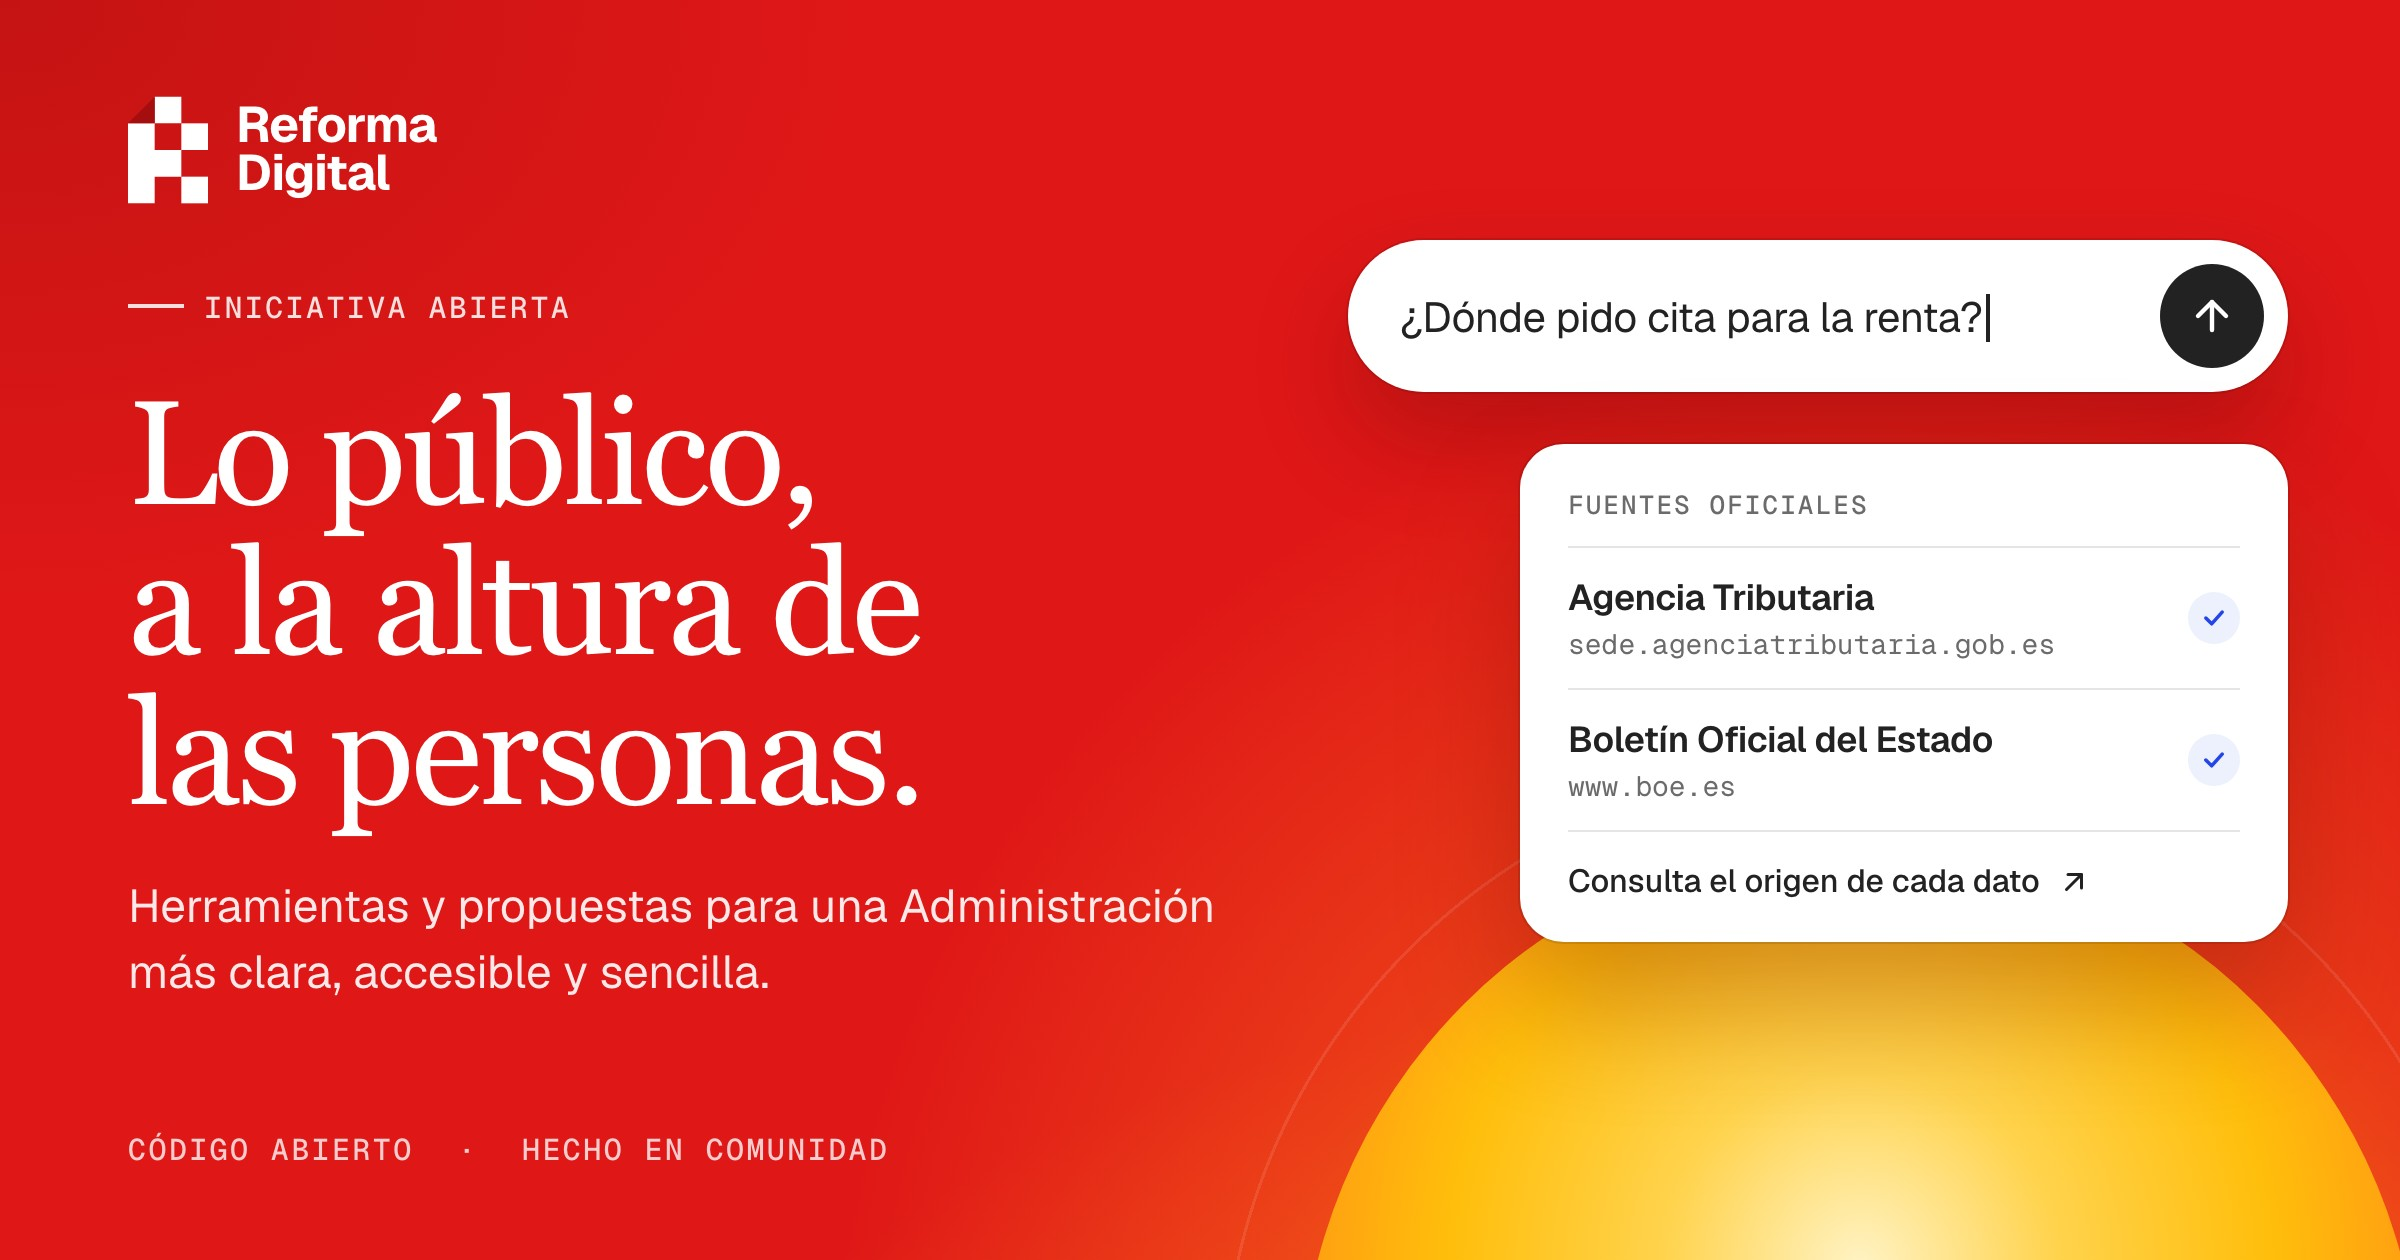
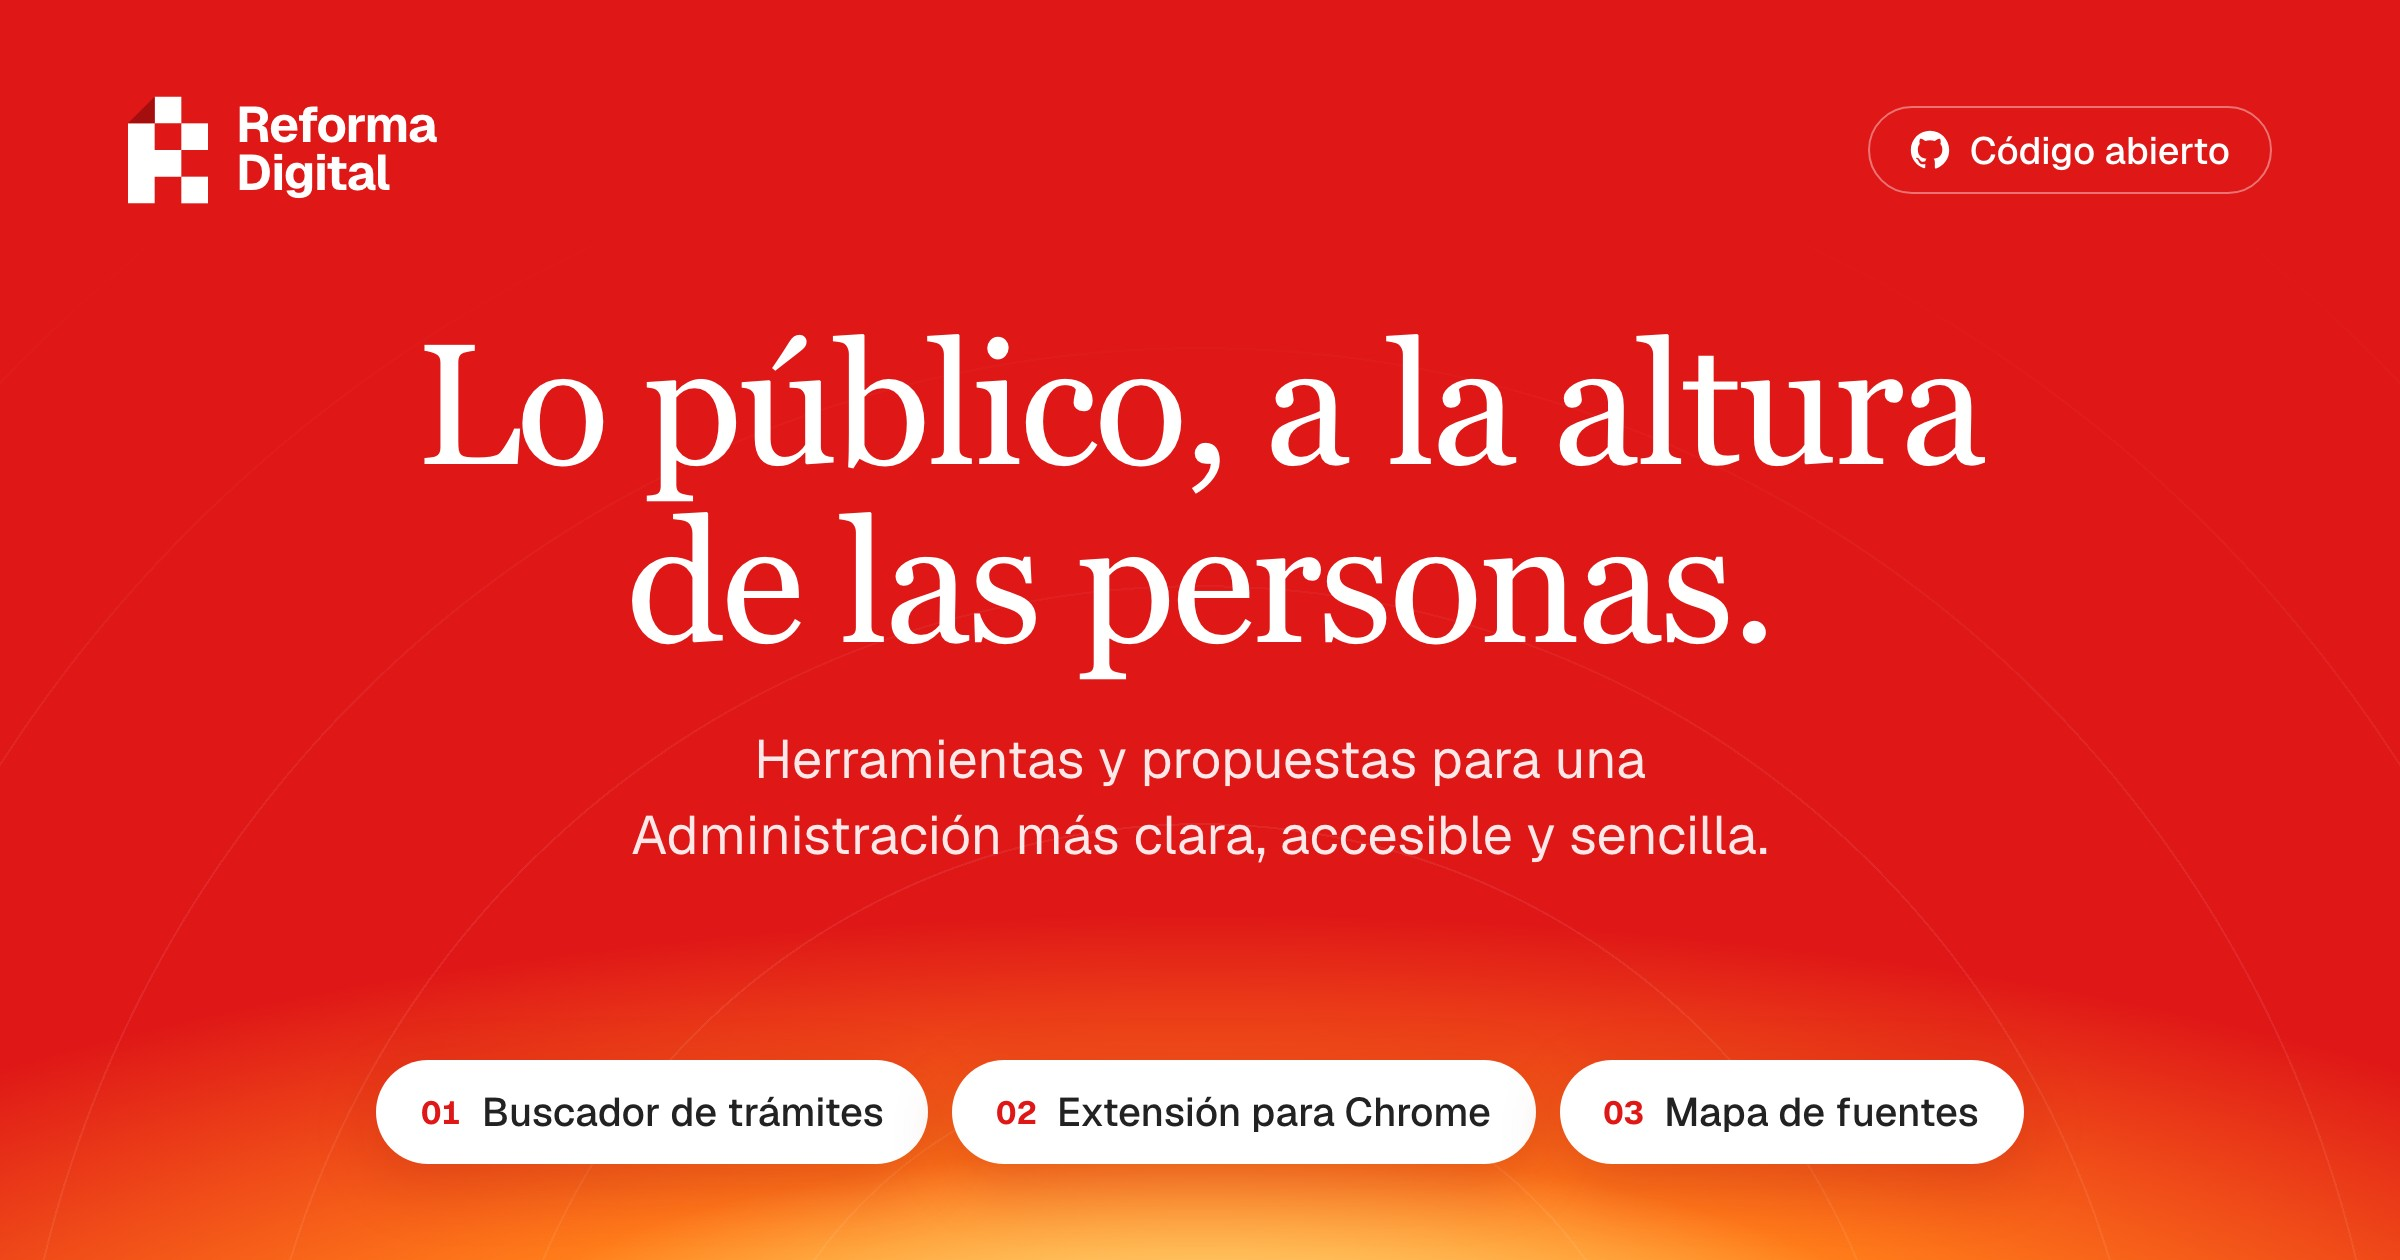
feat(web): usa el diseño centrado del hero en la imagen OG de la portada

diff --git a/apps/web/og/template.html b/apps/web/og/template.html
@@ -191,6 +191,95 @@
         display: block;
       }
 
+      /* Escena de portada: como el hero, centrada sobre el atardecer, con los proyectos debajo. */
+      [data-escena='portada'] main {
+        background:
+          radial-gradient(46% 30% at 50% 112%, #fff1b8 0%, rgba(255, 211, 77, 0) 70%),
+          radial-gradient(
+            95% 62% at 50% 122%,
+            #ffd34d 0%,
+            var(--amarillo) 22%,
+            var(--naranja) 46%,
+            rgba(223, 23, 23, 0) 80%
+          ),
+          var(--rojo);
+      }
+      [data-escena='portada'] :is(.sol, .resplandor, .etiqueta, footer) {
+        display: none;
+      }
+      [data-escena='portada'] .halos {
+        background: repeating-radial-gradient(
+          circle at 50% 122%,
+          rgba(255, 255, 255, 0) 0 118px,
+          rgba(255, 255, 255, 0.07) 118px 119px
+        );
+        -webkit-mask-image: linear-gradient(180deg, transparent 18%, #000 70%);
+      }
+      [data-escena='portada'] .copia {
+        left: 0;
+        right: 0;
+        top: 158px;
+        width: auto;
+        display: flex;
+        flex-direction: column;
+        align-items: center;
+        text-align: center;
+      }
+      [data-escena='portada'] h1 {
+        max-width: 900px;
+        font-size: 86px;
+        line-height: 1.04;
+        letter-spacing: -0.02em;
+      }
+      [data-escena='portada'] .texto {
+        max-width: 44ch;
+        margin-top: 24px;
+        font-size: 27px;
+        line-height: 1.4;
+        text-wrap: balance;
+      }
+      [data-escena='portada'] :is(.codigo, .proyectos) {
+        display: flex;
+      }
+      .codigo {
+        position: static;
+        align-items: center;
+        gap: 10px;
+        height: 44px;
+        padding: 0 20px;
+        border: 1px solid rgba(255, 255, 255, 0.4);
+        border-radius: 999px;
+        font-size: 19px;
+        font-weight: 500;
+      }
+      .proyectos {
+        left: 0;
+        right: 0;
+        bottom: 48px;
+        justify-content: center;
+        gap: 12px;
+        list-style: none;
+      }
+      .proyectos li {
+        display: flex;
+        align-items: center;
+        gap: 10px;
+        height: 52px;
+        padding: 0 22px;
+        border-radius: 999px;
+        background: var(--blanco);
+        box-shadow: 0 10px 30px rgba(165, 14, 14, 0.25);
+        font-size: 20px;
+        font-weight: 500;
+        color: var(--tinta);
+      }
+      .proyectos span {
+        font-size: 16px;
+        font-weight: 700;
+        font-variant-numeric: tabular-nums;
+        color: var(--rojo);
+      }
+
       .producto {
         top: 120px;
         right: 56px;
@@ -313,6 +402,14 @@
           </svg>
           <span>Reforma<br />Digital</span>
         </span>
+        <span class="escena codigo">
+          <svg width="20" height="20" viewBox="0 0 24 24" fill="currentColor" aria-hidden="true">
+            <path
+              d="M12 .5C5.65.5.5 5.65.5 12a11.5 11.5 0 0 0 7.86 10.92c.58.1.79-.25.79-.56v-2c-3.2.7-3.87-1.37-3.87-1.37-.53-1.33-1.28-1.69-1.28-1.69-1.05-.72.08-.7.08-.7 1.16.08 1.77 1.19 1.77 1.19 1.03 1.77 2.7 1.26 3.36.96.1-.75.4-1.26.73-1.55-2.56-.29-5.25-1.28-5.25-5.7 0-1.26.45-2.29 1.19-3.1-.12-.29-.52-1.46.11-3.05 0 0 .97-.31 3.17 1.18a11 11 0 0 1 5.77 0c2.2-1.49 3.17-1.18 3.17-1.18.63 1.59.23 2.76.11 3.05.74.81 1.19 1.84 1.19 3.1 0 4.43-2.7 5.4-5.27 5.69.41.36.78 1.06.78 2.14v3.17c0 .31.21.67.8.56A11.5 11.5 0 0 0 23.5 12C23.5 5.65 18.35.5 12 .5Z"
+            />
+          </svg>
+          Código abierto
+        </span>
       </header>
 
       <div class="copia">
@@ -322,6 +419,12 @@
           Herramientas y propuestas para una Administración más clara, accesible y sencilla.
         </p>
       </div>
+
+      <ul class="escena proyectos">
+        <li><span>01</span>Buscador de trámites</li>
+        <li><span>02</span>Extensión para Chrome</li>
+        <li><span>03</span>Mapa de fuentes</li>
+      </ul>
 
       <div class="escena producto" aria-hidden="true">
         <div class="compositor">
